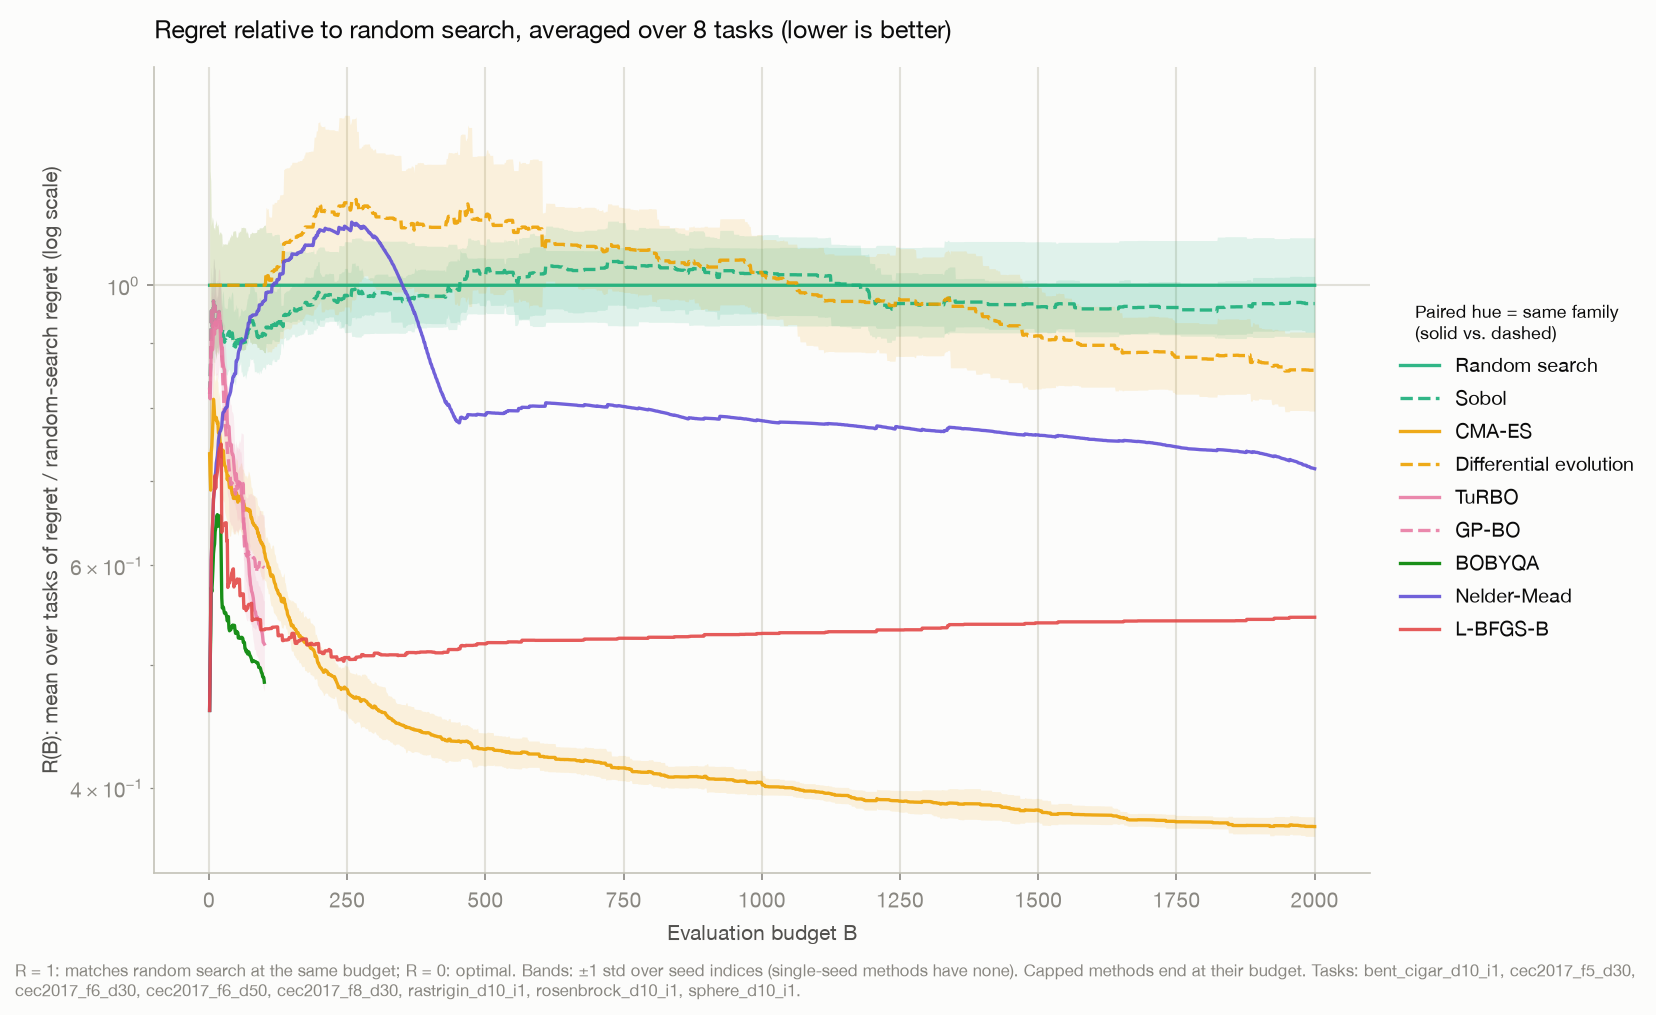
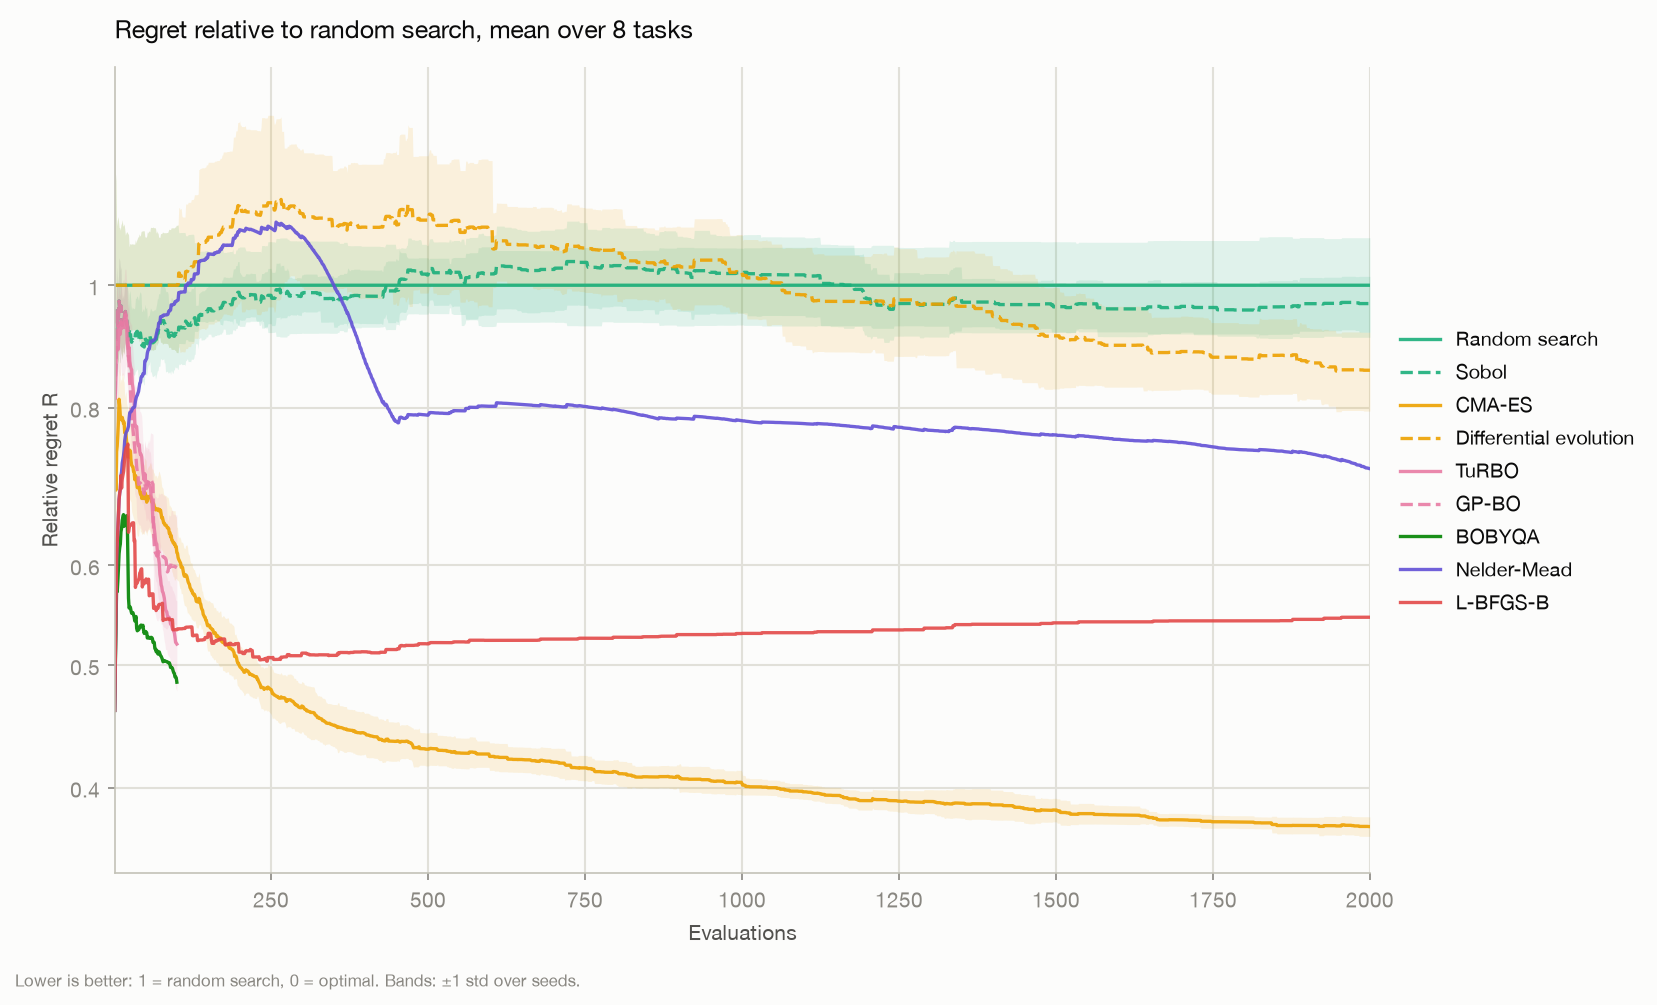
Global metric: drop the heatmap, tidy the R-vs-budget plot
Concise axis titles, decimal log-axis ticks, shorter title and footnote.

diff --git a/main/scripts/make_global_metric_plots.py b/main/scripts/make_global_metric_plots.py
@@ -15,11 +15,8 @@ mean of the per-seed R equals R_a; methods run with one seed get no band.
 Agents ran on only a few tasks, so their R covers just those tasks (counted in
 the printed table) and they are left off the aggregate curve.
 
-Produces in <results>/ (default results_linux/):
-  global_metric_vs_budget.png  -- R_a(B) vs. evaluations, every baseline
-  global_metric_heatmap.png    -- r_{a,i} per task x method at B=100 and B=2000,
-                                  with R_a as the bottom row
-and prints R_a at those budgets.
+Writes <results>/global_metric_vs_budget.png (default results_linux/), R_a(B)
+vs. evaluations for every baseline, and prints R_a at B = 100 and 2000.
 
 Usage (from main/):
     python scripts/make_global_metric_plots.py
@@ -33,7 +30,7 @@ from pathlib import Path
 
 import matplotlib.pyplot as plt
 import numpy as np
-from matplotlib.colors import LinearSegmentedColormap, TwoSlopeNorm
+from matplotlib.ticker import FormatStrFormatter, LogLocator, NullLocator
 
 from make_comparison_plots import (
     AGENT_RUNS,
@@ -41,10 +38,8 @@ from make_comparison_plots import (
     GRIDLINE,
     MAIN_ROOT,
     SANDBOX_ROOT,
-    SURFACE,
     TEXT_MUTED,
     TEXT_PRIMARY,
-    TEXT_SECONDARY,
     baseline_display_names,
     baseline_style,
     load_rows,
@@ -54,10 +49,6 @@ from make_comparison_plots import (
 EPS = 1e-12
 BASELINE = "random_search"
 CHECKPOINTS = (100, 2000)
-# Diverging pair from the dataviz palette: blue = beats random, red = worse,
-# neutral gray midpoint at r = 1.
-DIVERGING = LinearSegmentedColormap.from_list("blue_gray_red", ["#2a78d6", "#f0efec", "#e34948"])
-MAX_LOG_RATIO = 6  # color scale clipped at 1e-6 .. 1e6
 
 
 def padded(regret, budget):
@@ -145,78 +136,27 @@ def plot_vs_budget(results_root, rel):
                             alpha=0.12, linewidth=0, zorder=1)
 
     ax.set_yscale("log")
-    ax.set_xlabel("Evaluation budget B", fontsize=10)
-    ax.set_ylabel("R(B): mean over tasks of regret / random-search regret (log scale)", fontsize=10)
+    # Plain decimals: R spans well under a decade, so 10^k labels would be mostly empty.
+    ax.yaxis.set_major_locator(LogLocator(subs=(1, 2, 3, 4, 5, 6, 8)))
+    ax.yaxis.set_major_formatter(FormatStrFormatter("%g"))
+    ax.yaxis.set_minor_locator(NullLocator())
+    ax.set_xlim(1, max(r.shape[1] for t in rel.values() for r in t.values()))
+    ax.set_xlabel("Evaluations", fontsize=10)
+    ax.set_ylabel("Relative regret R", fontsize=10)
     ax.grid(True, which="major", axis="both", color=GRIDLINE, linewidth=1.0, zorder=0)
     ax.set_axisbelow(True)
     for spine in ("top", "right"):
         ax.spines[spine].set_visible(False)
     ax.spines["left"].set_color(AXIS)
     ax.spines["bottom"].set_color(AXIS)
-    ax.set_title(f"Regret relative to random search, averaged over {len(rel)} tasks (lower is better)",
+    ax.set_title(f"Regret relative to random search, mean over {len(rel)} tasks",
                  fontsize=12, color=TEXT_PRIMARY, pad=14, loc="left")
     ax.legend(frameon=False, loc="center left", bbox_to_anchor=(1.01, 0.5), fontsize=9.5,
-              labelcolor=TEXT_PRIMARY, title="Paired hue = same family\n(solid vs. dashed)", title_fontsize=8.5)
-    fig.text(0.0, -0.03,
-             "R = 1: matches random search at the same budget; R = 0: optimal. "
-             "Bands: ±1 std over seed indices (single-seed methods have none). "
-             "Capped methods end at their budget. Tasks: " + ", ".join(rel) + ".",
-             fontsize=8, color=TEXT_MUTED, wrap=True)
-    fig.tight_layout()
-    fig.savefig(results_root / "global_metric_vs_budget.png", bbox_inches="tight")
-    plt.close(fig)
-
-
-def plot_heatmap(results_root, rel):
-    baselines, agents = methods_in(rel)
-    methods = baselines + agents
-    tasks = list(rel)
-    norm = TwoSlopeNorm(vmin=-MAX_LOG_RATIO, vcenter=0, vmax=MAX_LOG_RATIO)
-
-    fig, axes = plt.subplots(1, len(CHECKPOINTS), figsize=(7 * len(CHECKPOINTS), 0.5 * len(tasks) + 3.2),
-                             dpi=150, sharey=True)
-    for ax, b in zip(axes, CHECKPOINTS):
-        grid = np.full((len(tasks) + 1, len(methods)), np.nan)
-        for j, m in enumerate(methods):
-            for i, t in enumerate(tasks):
-                r = rel[t].get(m)
-                if r is not None and r.shape[1] >= b:
-                    grid[i, j] = r[:, b - 1].mean()
-            # R_a only over every task, so a method missing a task gets no mean cell.
-            if not np.isnan(grid[: len(tasks), j]).any():
-                grid[-1, j] = grid[: len(tasks), j].mean()
-
-        log_r = np.log10(np.clip(grid, 10.0**-MAX_LOG_RATIO, 10.0**MAX_LOG_RATIO))
-        ax.imshow(np.ma.masked_invalid(log_r), cmap=DIVERGING, norm=norm, aspect="auto")
-        for i in range(grid.shape[0]):
-            for j in range(grid.shape[1]):
-                v = grid[i, j]
-                text = "--" if np.isnan(v) else f"{v:.2g}"
-                ink = "white" if not np.isnan(v) and abs(log_r[i, j]) > 0.6 * MAX_LOG_RATIO else TEXT_PRIMARY
-                ax.text(j, i, text, ha="center", va="center", fontsize=8,
-                        color=TEXT_MUTED if np.isnan(v) else ink,
-                        fontweight="bold" if i == len(tasks) else "normal")
-
-        ax.axhline(len(tasks) - 0.5, color=SURFACE, linewidth=4)
-        ax.set_xticks(range(len(methods)))
-        ax.set_xticklabels([baseline_display_names.get(m, m) for m in methods], rotation=45,
-                           ha="right", fontsize=9, color=TEXT_PRIMARY)
-        ax.set_yticks(range(len(tasks) + 1))
-        ax.set_yticklabels(tasks + ["R (mean over tasks)"], fontsize=9, color=TEXT_PRIMARY)
-        ax.tick_params(length=0)
-        for spine in ax.spines.values():
-            spine.set_visible(False)
-        ax.set_title(f"Budget B = {b}", fontsize=11, color=TEXT_SECONDARY, loc="left")
-
-    fig.suptitle("Regret relative to random search, r = regret / random-search regret (lower is better)",
-                 fontsize=12, color=TEXT_PRIMARY, x=0.01, ha="left")
-    fig.text(0.01, -0.02,
-             "Blue: beats random search; gray: r = 1; red: worse. Color is log-scaled, clipped at "
-             f"1e±{MAX_LOG_RATIO}. Cells: mean over seeds. '--': not run at that budget or on that task "
-             "(capped baselines stop at 100; agents ran on a subset of tasks).",
+              labelcolor=TEXT_PRIMARY)
+    fig.text(0.0, -0.02, "Lower is better: 1 = random search, 0 = optimal. Bands: ±1 std over seeds.",
              fontsize=8, color=TEXT_MUTED)
     fig.tight_layout()
-    fig.savefig(results_root / "global_metric_heatmap.png", bbox_inches="tight")
+    fig.savefig(results_root / "global_metric_vs_budget.png", bbox_inches="tight")
     plt.close(fig)
 
 
@@ -228,7 +168,6 @@ def main():
     rel = relative_regrets(results_root)
     print_table(rel)
     plot_vs_budget(results_root, rel)
-    plot_heatmap(results_root, rel)
 
 
 if __name__ == "__main__":
